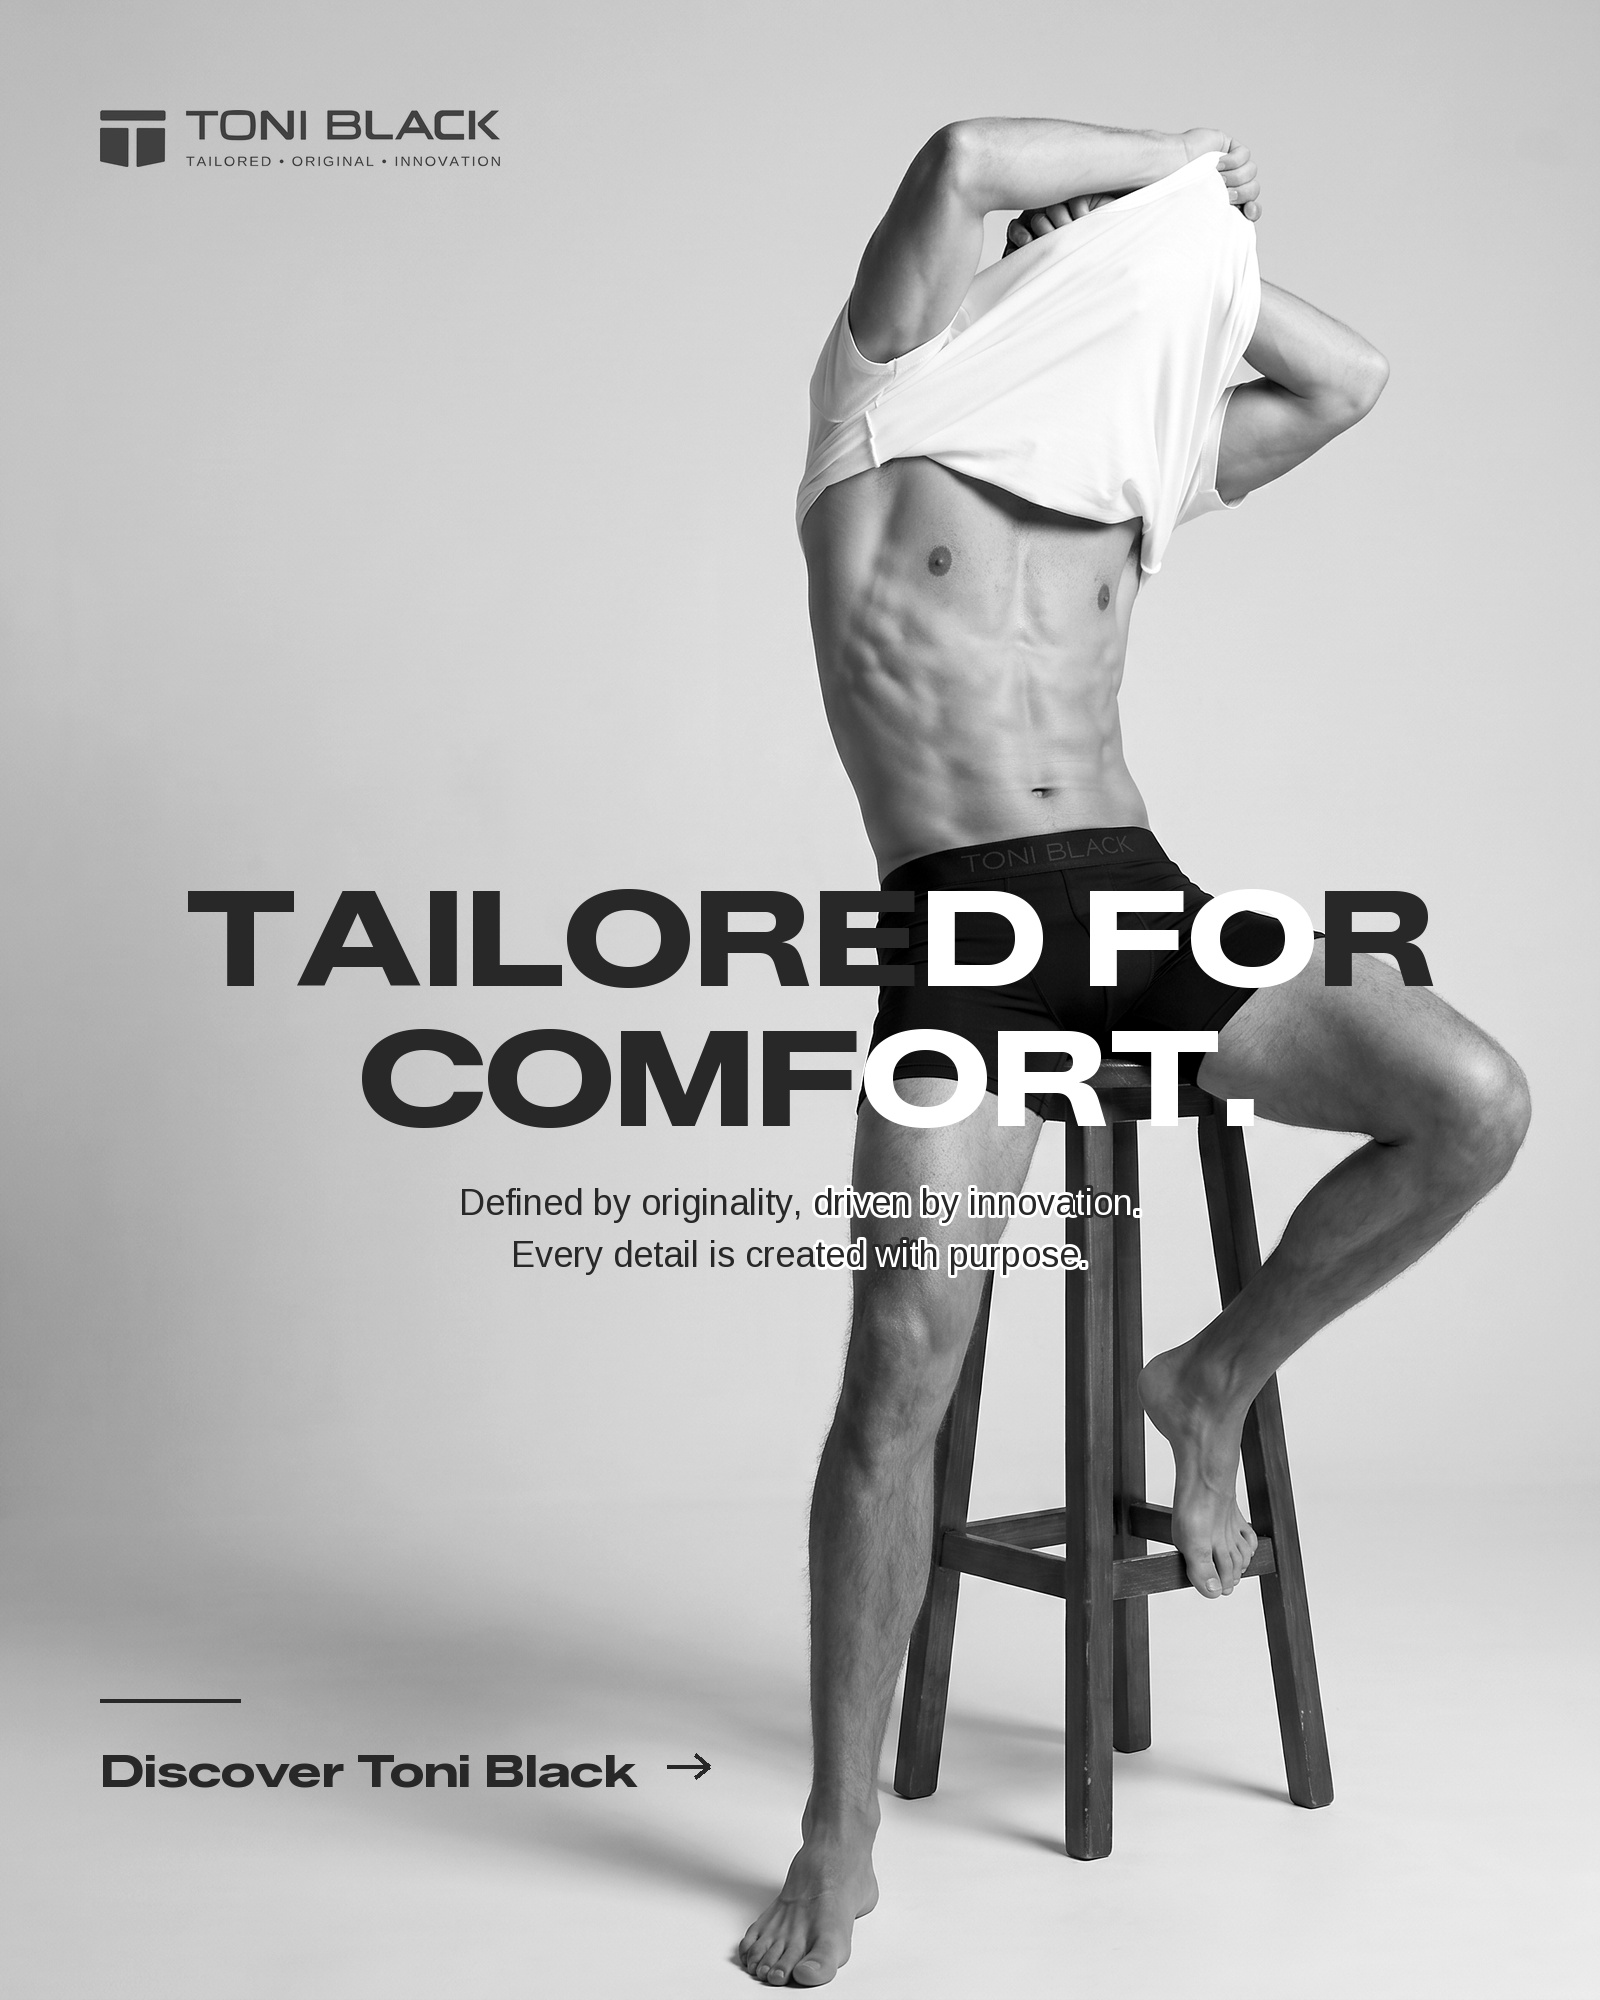
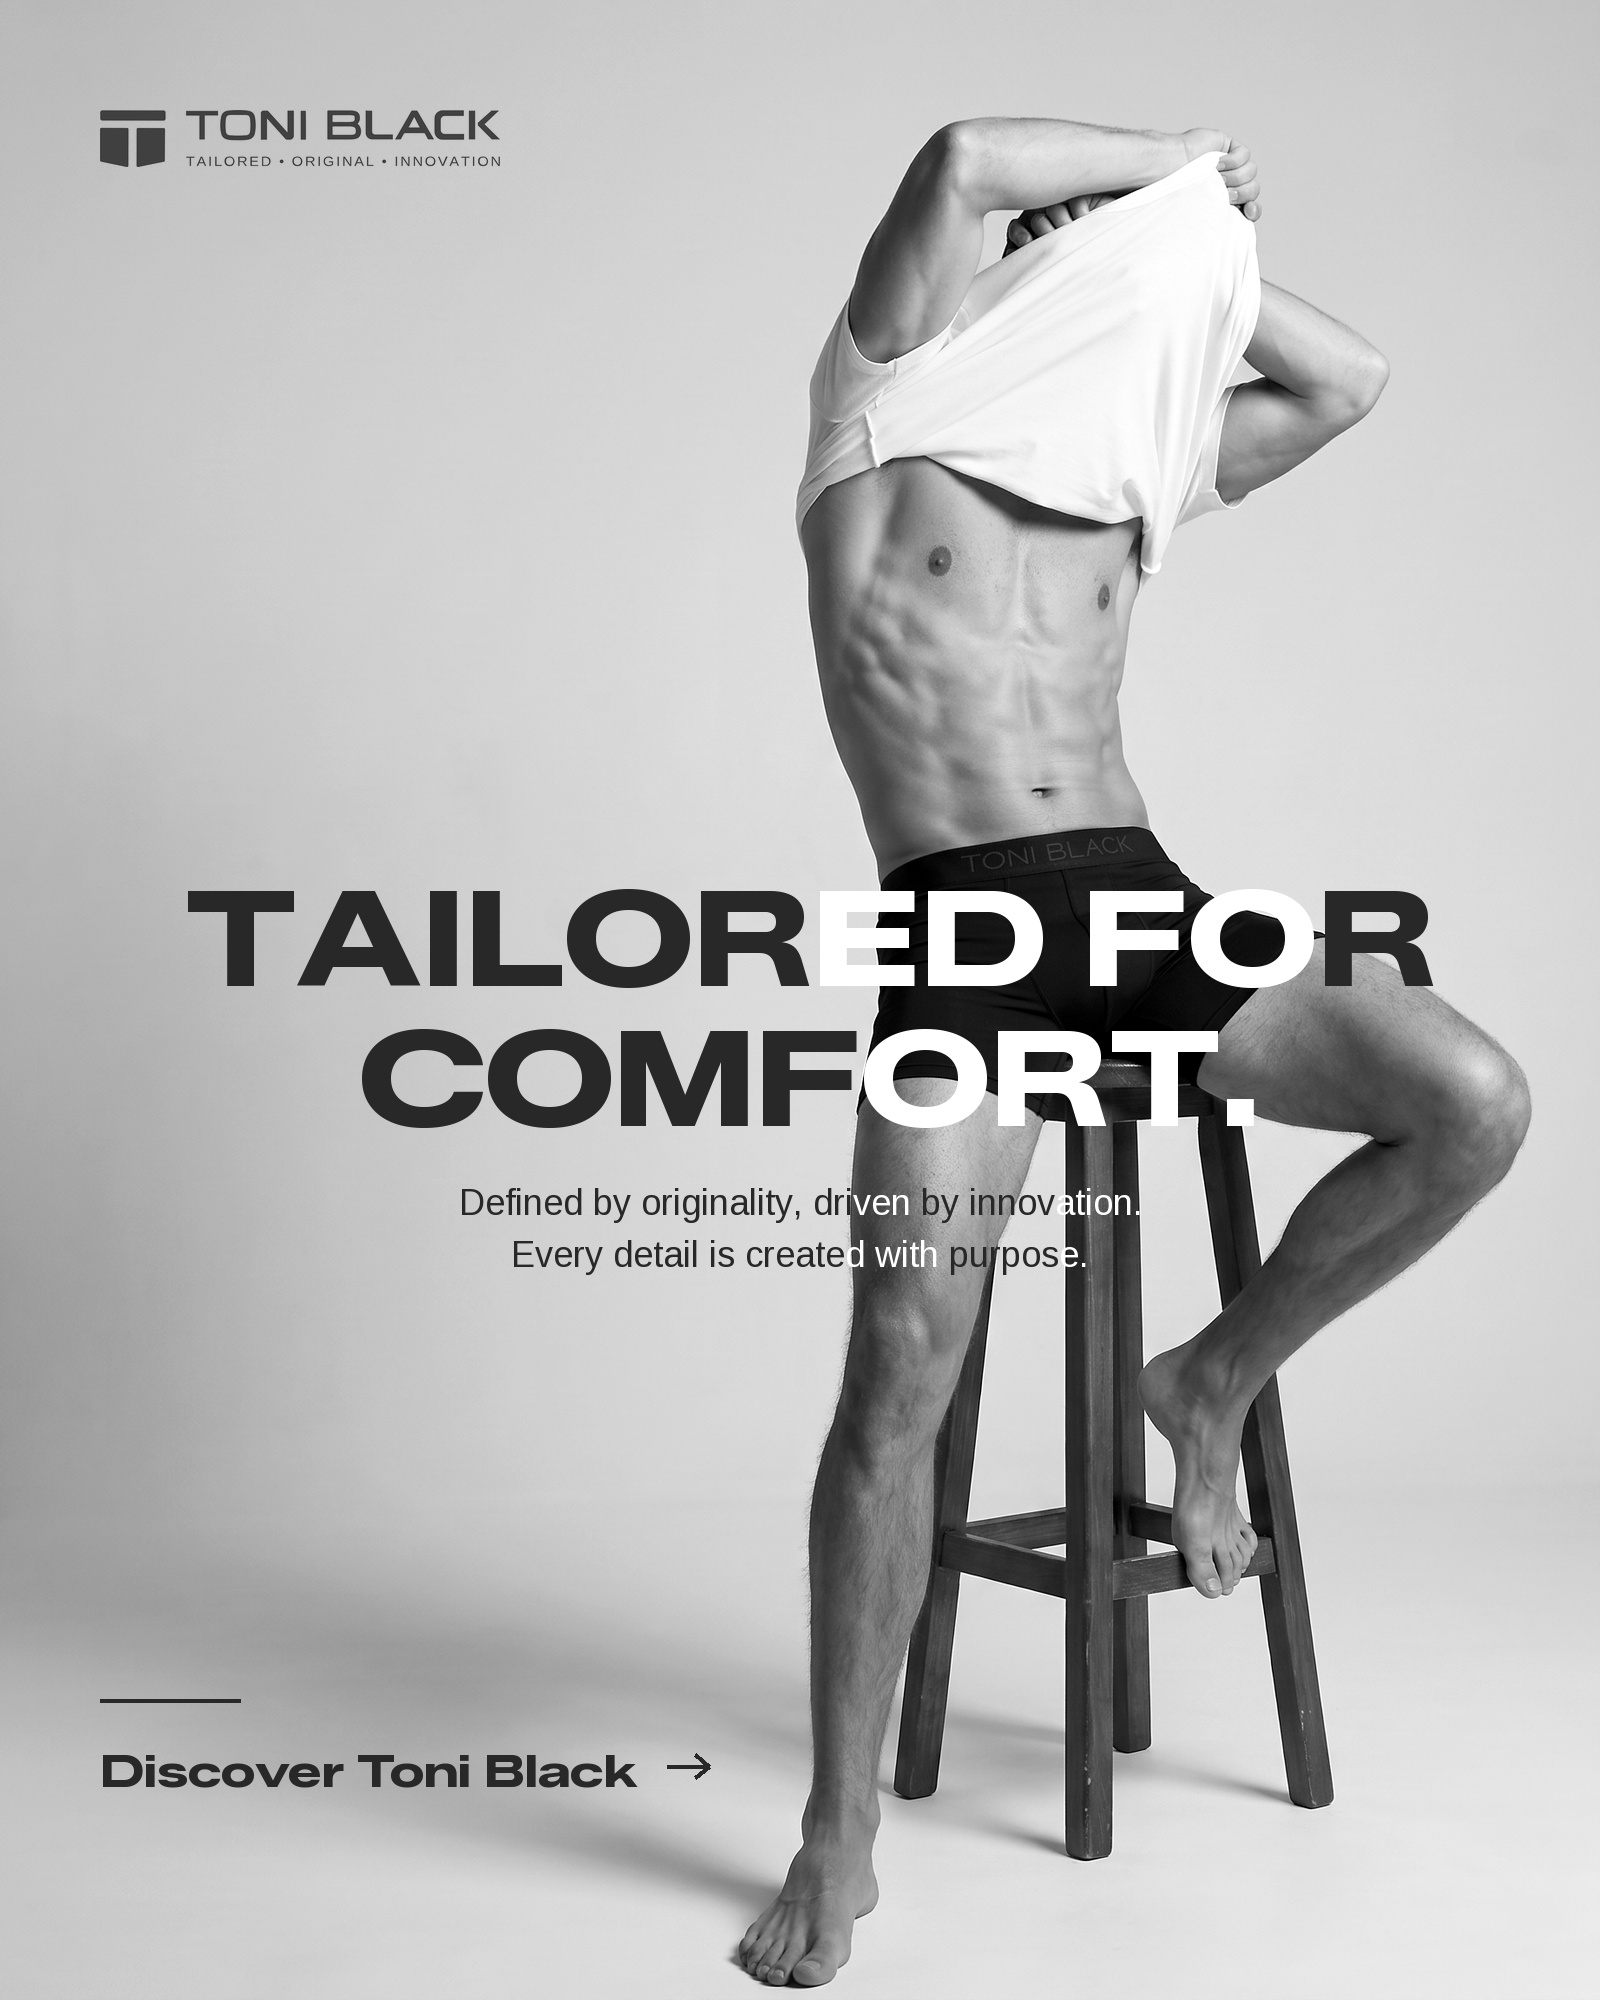
Give the two-tone type solid fills instead of an outline
The halo I added to rescue letters over mid-grey ground was the wrong answer:
it made the white read as an outline around the letter rather than filling it,
which is a different visual language from the reference's hard two-tone.

The halo is gone, and the actual cause is fixed. Small type had been reading a
much softer blur than display type, to stop a thin stool leg flipping single
letters — but softening it also meant a glyph sitting across the leg's edge
averaged to the wrong colour and disappeared into it. Every size now reads the
same blur and tracks the real edge, so each letter is one solid fill.

The switch also moves to the midpoint of the two inks, (40 + 255) / 2 rather
than 132. That is the point that maximises whichever contrast is weaker: below
it white separates further from the ground, above it black does. The old
threshold was handing mid-grey ground to black where white read better.

Claude-Session: https://claude.ai/code/session_01BFDP3Ndj2eT8f8PUhw5miP

Changed region(s): [[0.5, 0.589, 0.6875, 0.651], [0.5, 0.434, 0.5938, 0.496]]

diff --git a/tools/build_banners.py b/tools/build_banners.py
@@ -97,20 +97,26 @@ def save(im, name):
 # Copy from the Story page (guideline p.33), laid out like the supplied
 # reference: full-bleed model, headline sitting across him, and lettering that
 # switches between black and white according to what is behind it.
-def duotone(canvas, blocks, thresh=132, blur=8):
+def duotone(canvas, blocks, thresh=148, blur=8):
     """Draw text that flips between black and white to stay legible over whatever
     it crosses, the way the supplied reference does.
 
     The choice is made once per glyph, from the mean luminance of the photograph
     behind that glyph. Deciding per pixel instead would split single letters down
-    the middle, which reads as a printing fault rather than a design."""
-    # Two readings of the same photograph. Display type switches on a tight blur
-    # so it tracks the real edge of the garment; small type reads a much softer
-    # blur, otherwise a stool leg a few pixels wide flips single letters and the
-    # line looks broken rather than deliberate.
+    the middle, which reads as a printing fault rather than a design.
+
+    The switch sits at the midpoint of the two inks, (40 + 255) / 2, not lower.
+    That is the point that maximises the weaker of the two contrasts: below it
+    white separates further from the ground, above it black does. A lower
+    threshold handed mid-grey ground to black where white would have read
+    better."""
+    # One reading for every size. A much softer blur was used for small type at
+    # first, to stop a thin stool leg flipping single letters — but softening it
+    # also meant a glyph straddling the leg's edge averaged out to the wrong
+    # colour and vanished into it. Tracking the real edge keeps every letter a
+    # solid fill, which is what the reference does.
     base = canvas.convert("L")
     sharp = np.asarray(base.filter(ImageFilter.GaussianBlur(blur))).astype(np.float32)
-    soft = np.asarray(base.filter(ImageFilter.GaussianBlur(46))).astype(np.float32)
     H, W = sharp.shape
     d = ImageDraw.Draw(canvas)
     asc_cache = {}
@@ -121,7 +127,7 @@ def duotone(canvas, blocks, thresh=132, blur=8):
         if centre:
             x -= tw(d, text, font, tr) / 2
         asc = asc_cache.setdefault(id(font), font.getmetrics()[0])
-        lum = sharp if font.size >= 80 else soft
+        lum = sharp
         for ch in text:
             w = d.textlength(ch, font=font)
             if ch.strip():
@@ -132,16 +138,10 @@ def duotone(canvas, blocks, thresh=132, blur=8):
                 y0 = int(max(0, y + asc * 0.22))
                 y1 = int(min(H, y + asc * 0.92))
                 m = lum[y0:y1, x0:x1].mean() if (x1 > x0 and y1 > y0) else 255.0
-                fg, bg = (WHITE, BLACK) if m < thresh else (BLACK, WHITE)
-                # Halo only where the ground sits near the switch point, which is
-                # exactly where either colour is weak — a shin, a stool leg. On
-                # clean light or clean dark ground it would just look embossed, so
-                # it is skipped there.
-                if halo and abs(m - thresh) < 58:
-                    d.text((x, y), ch, font=font, fill=fg,
-                           stroke_width=halo, stroke_fill=bg)
-                else:
-                    d.text((x, y), ch, font=font, fill=fg)
+                # Solid fill, always. An outline in the opposite colour would
+                # rescue the mid-grey cases but reads as outlined type rather than
+                # the clean two-tone the reference uses.
+                d.text((x, y), ch, font=font, fill=WHITE if m < thresh else BLACK)
             x += w + tr
 
 
@@ -168,7 +168,7 @@ def banner1():
     y = 858 + round(hf.size * 1.06) * 2 + 44
     for line in ["Defined by originality, driven by innovation.",
                  "Every detail is created with purpose."]:
-        blocks.append(((cx, y), line, sf, 0, True, 3))
+        blocks.append(((cx, y), line, sf, 0, True))
         y += 52
     duotone(c, blocks)
 

diff --git a/banners/shopee/COPY_AND_LAYOUT.md b/banners/shopee/COPY_AND_LAYOUT.md
@@ -51,20 +51,19 @@ Seluruh copy bersumber dari brand guideline, tidak ada yang dikarang:
 
 ### Cara teks dua warna itu bekerja
 
-Warna tiap huruf ditentukan dari **luminansi foto di belakang huruf itu sendiri**, bukan disetel manual. Boxer hitam terbaca 26–99, latar studio 195, jadi ambang 132 memisahkannya dengan bersih.
+Warna tiap huruf ditentukan dari **luminansi foto di belakang huruf itu sendiri**, bukan disetel manual.
 
-Dua hal yang perlu dibereskan supaya hasilnya tidak terlihat seperti cacat cetak:
+Tiga hal yang menentukan hasilnya terbaca sebagai desain atau sebagai cacat:
 
-1. **Keputusan diambil per huruf, bukan per piksel.** Kalau per piksel, satu huruf bisa terbelah separuh hitam separuh putih — terbaca sebagai salah cetak, bukan desain.
+1. **Keputusan per huruf, bukan per piksel.** Kalau per piksel, satu huruf bisa terbelah separuh hitam separuh putih — terbaca sebagai salah cetak.
 2. **Kotak sampelnya setinggi huruf kapital saja.** Memakai seluruh kotak ascender ikut merata-ratakan ruang kosong di atas huruf, dan hasilnya condong ke warna latar.
+3. **Ambangnya di titik tengah kedua tinta, (40+255)/2 = 148.** Ini titik yang memaksimalkan kontras terlemah: di bawahnya putih lebih jauh jaraknya dari latar, di atasnya hitam. Ambang yang lebih rendah menyerahkan latar abu tengah ke hitam padahal putih lebih terbaca di situ.
 
-### Sub-copy di tengah, persis di bawah headline
+### Isian penuh, bukan garis luar
 
-Sesuai referensi, sub-copy duduk di tengah tepat di bawah headline dan ikut mendapat perlakuan dua warna.
+Sempat saya pasang halo berwarna kebalikan untuk menolong huruf di atas latar abu tengah. Hasilnya salah: hurufnya jadi terbaca sebagai **teks outline** — bagian putihnya cuma garis tepi, bukan isian. Itu bahasa visual yang berbeda dari referensi, yang memakai isian solid tegas.
 
-Ada satu masalah nyata di situ: ujung kanan kedua baris melintasi tulang kering model dan kaki kursi, yang bernilai abu tengah. Di ground seperti itu, teks hitam maupun putih dua-duanya lemah — kata "purpose." sempat nyaris hilang.
-
-Solusinya **halo tipis berwarna kebalikan**, dan yang penting: halo itu hanya muncul di huruf yang latarnya dekat titik ambang. Di ground yang jelas terang atau jelas gelap, halo dilewati — kalau dipasang rata, teks di area terang jadi terlihat seperti timbul. Jadi separuh kiri kalimat tetap teks hitam bersih tanpa halo, dan hanya ujung kanannya yang dibantu.
+Halo dihapus. Akar masalahnya ternyata di tempat lain: teks kecil dulu memakai blur yang jauh lebih lembut untuk mencegah kaki kursi tipis membalik huruf satu-satu. Tapi pelembutan itu juga membuat huruf yang menumpuk tepat di tepi kaki kursi merata-rata ke warna yang salah, lalu hilang di dalamnya. Sekarang semua ukuran memakai blur yang sama sehingga mengikuti tepi sebenarnya, dan setiap huruf jadi satu warna solid.
 
 **CTA tetap di kiri bawah.** Kalau ikut ditaruh di tengah paling bawah, ia mendarat di kaki kursi dan tulang kering — persis ground abu tengah yang sama, tapi tanpa cukup ruang bersih di sekitarnya untuk diselamatkan.
 
